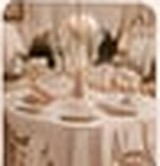
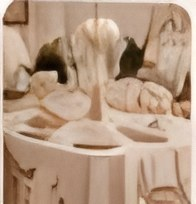
Bridal Journey: sharper photos (4x upscale)
Re-cropped the hero, appointment photos, avatar and decorations from
the owner's reference and upscaled them 4x with Real-ESRGAN (run
locally, no paid service). Blended a little original texture and fine
grain back in, smoothed the patched area on the hero's right edge,
rebuilt the sprig with real transparency and softened the blossom
corner's edges.

Claude-Session: https://claude.ai/code/session_01GWfywGzp39p4URjeog9ZPH

diff --git a/bridal-journey/index.html b/bridal-journey/index.html
@@ -70,11 +70,11 @@ svg.i{width:20px;height:20px;flex:0 0 auto}
 /* ---------- Hero ---------- */
 .hero{position:relative;height:520px;overflow:hidden;background:linear-gradient(180deg,var(--sky) 0%,var(--sky2) 70%,var(--page) 100%)}
 /* Image slot: assets/bride-hero.jpg. It sits on the left and melts into the sky behind the words. */
-.hero-photo{position:absolute;top:0;bottom:0;inset-inline-end:0;width:62%;-webkit-mask-image:linear-gradient(to right,#000 68%,transparent 100%);mask-image:linear-gradient(to right,#000 68%,transparent 100%)}
+.hero-photo{position:absolute;top:0;bottom:0;inset-inline-end:0;width:62%;-webkit-mask-image:linear-gradient(to right,#000 62%,transparent 97%);mask-image:linear-gradient(to right,#000 62%,transparent 97%)}
 .hero-photo img{width:100%;height:100%;object-fit:cover;object-position:left 30%;animation:settle 1.4s var(--ease) both}
 .hero-photo::after{content:"";position:absolute;inset:auto 0 0 0;height:120px;background:linear-gradient(to top,var(--page),rgba(245,235,229,0))}
 .hero .land{position:absolute;inset-inline-start:0;top:120px;width:58%;height:260px;pointer-events:none;opacity:.75}
-.hero .blossom{position:absolute;top:0;inset-inline-start:0;width:150px;opacity:.9;pointer-events:none;-webkit-mask-image:linear-gradient(to bottom,#000 70%,transparent);mask-image:linear-gradient(to bottom,#000 70%,transparent)}
+.hero .blossom{position:absolute;top:0;inset-inline-start:0;width:150px;mix-blend-mode:multiply;opacity:.9;pointer-events:none;-webkit-mask-image:radial-gradient(130% 100% at 100% 0,#000 40%,transparent 78%);mask-image:radial-gradient(130% 100% at 100% 0,#000 40%,transparent 78%)}
 .hero .wrap{position:relative;height:100%;display:flex}
 .hero-copy{width:min(560px,48%);padding-top:58px;text-align:start}
 .hero-copy h1{margin:0;font:400 clamp(48px,4.8vw,66px)/1.15 var(--title-font);color:var(--title);letter-spacing:0}
@@ -355,7 +355,7 @@ footer{padding:28px 0 8px;text-align:center;font-size:12px;color:var(--muted)}
       <path d="M0 190h700v20H0z" fill="#e8e3e2" opacity=".45"/>
     </svg>
     <!-- Decorative blossoms taken from the reference -->
-    <img class="blossom" src="assets/blossom-corner.png" alt="">
+    <img class="blossom" src="assets/blossom-corner.jpg" alt="">
     <div class="wrap">
       <div class="hero-copy">
         <h1 id="hero-title">رحلة العروس</h1>

diff --git a/bridal-journey/ASSET_MANIFEST.md b/bridal-journey/ASSET_MANIFEST.md
@@ -11,7 +11,7 @@ All paths are relative to `bridal-journey/`.
 | assets/appointment-table.jpg | appointment thumb | menu/table appointment |
 | assets/avatar.jpg | profile photo | header avatar |
 | assets/sprig.png | decoration | flower sprig in the countdown card (transparent) |
-| assets/blossom-corner.png | decoration | blossom branch in the hero corner (transparent) |
+| assets/blossom-corner.jpg | decoration | blossom branch in the hero corner (multiply blend, soft mask) |
 | assets/logo-mark.svg | brand mark | header/logo |
 | assets/icon-venue.svg | line icon | venue tasks/cards |
 | assets/icon-flower.svg | line icon | flowers/decor |
@@ -29,4 +29,4 @@ All paths are relative to `bridal-journey/`.
 - If higher-resolution source photos are later provided, overwrite the same filenames so code does not need to change.
 
 ## Source of the current photos
-`bride-hero.jpg`, the three appointment photos, `avatar.jpg`, `sprig.png` and `blossom-corner.png` were cropped from the owner's reference mockup (2026-10-03) and enlarged. The hero patches a small area on its right edge, which fades into the sky in the layout. Replace any of them with full-resolution originals under the same filenames; no code change is needed.
+`bride-hero.jpg`, the three appointment photos, `avatar.jpg`, `sprig.png` and `blossom-corner.png` were cropped from the owner's reference mockup (2026-10-03) and upscaled 4x with Real-ESRGAN (open-source, run locally), with a little of the original texture and fine grain blended back in. The hero patches a small area on its right edge, which fades into the sky in the layout. Replace any of them with full-resolution originals under the same filenames; no code change is needed.
